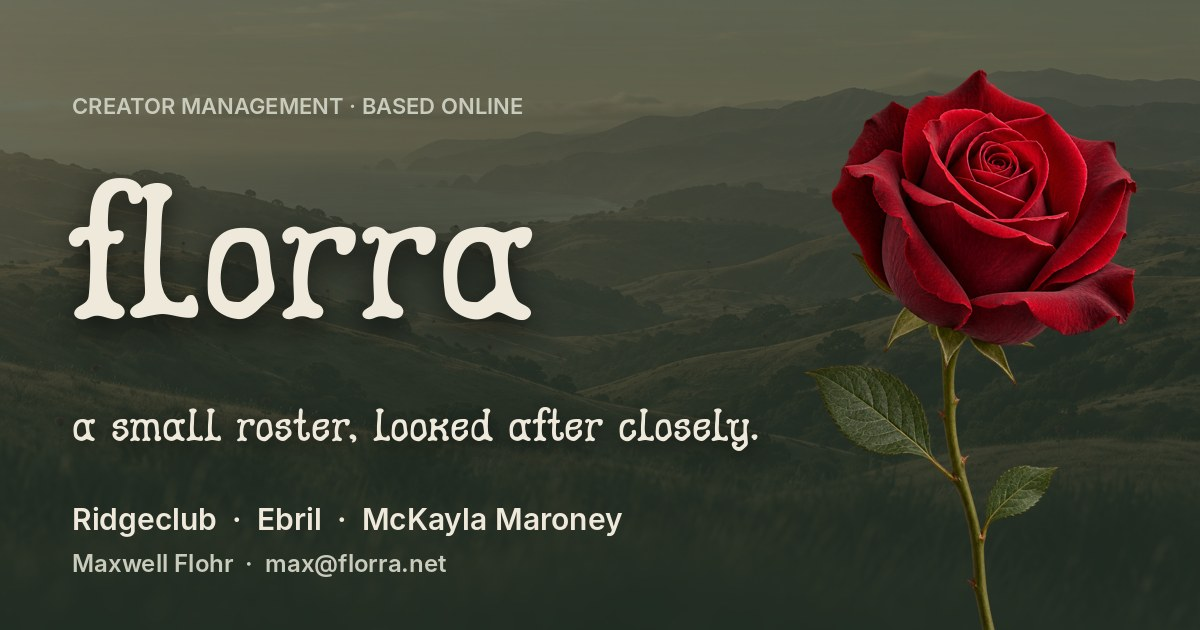
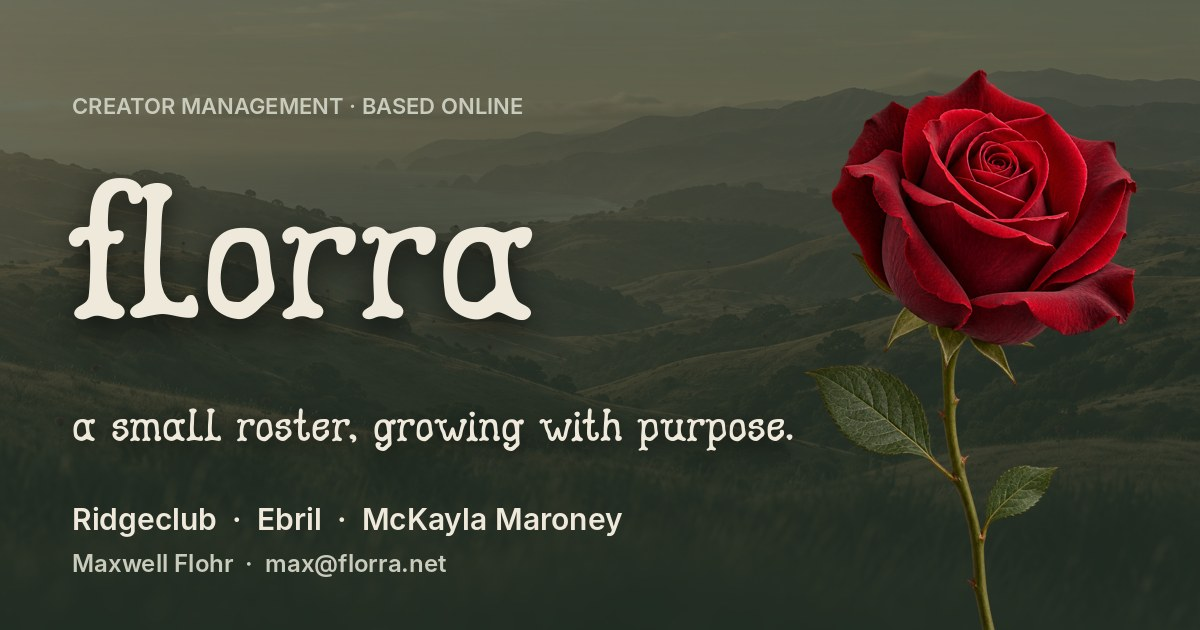
Preview: hero line 'a small roster, growing with purpose.' (Max's line), with meta, llms.txt and share image

Changed region(s): [[0.3083, 0.6333, 0.6783, 0.7238]]

diff --git a/mgmt/index.html b/mgmt/index.html
@@ -4,12 +4,12 @@
 <meta charset="utf-8">
 <meta name="viewport" content="width=device-width, initial-scale=1">
 <title>florra — creator management</title>
-<meta name="description" content="Florra manages creators across music, livestream and writing: Ridgeclub, Ebril and McKayla Maroney. A small roster, looked after closely.">
+<meta name="description" content="Florra manages creators across music, livestream and writing: Ridgeclub, Ebril and McKayla Maroney. A small roster, growing with purpose.">
 <link rel="canonical" href="https://www.florra.net/">
 <meta property="og:type" content="website">
 <meta property="og:site_name" content="florra">
 <meta property="og:title" content="florra — creator management">
-<meta property="og:description" content="A small roster, looked after closely. Ridgeclub, Ebril and McKayla Maroney.">
+<meta property="og:description" content="A small roster, growing with purpose. Ridgeclub, Ebril and McKayla Maroney.">
 <meta property="og:url" content="https://www.florra.net/">
 <meta property="og:image" content="https://www.florra.net/assets/og/florra.jpg">
 <meta property="og:image:width" content="1200">
@@ -154,7 +154,7 @@ header nav a,.artist .more{font-family:'Inter',sans-serif;font-weight:600;font-s
     <img class="rose" src="/assets/rose-botanical.webp" alt="" aria-hidden="true" fetchpriority="high" decoding="async">
     <div class="hero-copy">
       <p class="label">creator management · based online</p>
-      <h1 id="hero-title">a small roster, <em>looked after closely.</em></h1>
+      <h1 id="hero-title">a small roster, <em>growing with purpose.</em></h1>
       <p class="intro">the <span class="struck" data-w="artist" data-x="xxxxxx" aria-hidden="true"></span> creator comes first. seeding at volume, fast informal deals, and a back office built on our own tools.</p>
       <p class="hero-cta"><a href="mailto:max@florra.net">management enquiries: max@florra.net</a></p>
     </div>

diff --git a/scripts/make-og.py b/scripts/make-og.py
@@ -25,7 +25,7 @@ except FileNotFoundError: pass
 d = ImageDraw.Draw(img)
 d.text((72, 92), 'CREATOR MANAGEMENT · BASED ONLINE', font=f(SANS, 22), fill=MUTED)
 shadow_text(img, (66, 150), 'florra', f(FABLE, 190), PAPER, blur=14, offset=(0, 10))
-shadow_text(img, (72, 400), 'a small roster, looked after closely.', f(FABLE, 46), PAPER)
+shadow_text(img, (72, 400), 'a small roster, growing with purpose.', f(FABLE, 46), PAPER)
 d.text((72, 500), 'Ridgeclub  ·  Ebril  ·  McKayla Maroney', font=f(SANS, 30), fill=PAPER)
 d.text((72, 548), 'Maxwell Flohr  ·  max@florra.net', font=f(SANS, 24), fill=MUTED)
 img.convert('RGB').save('assets/og/florra.jpg', quality=88)
